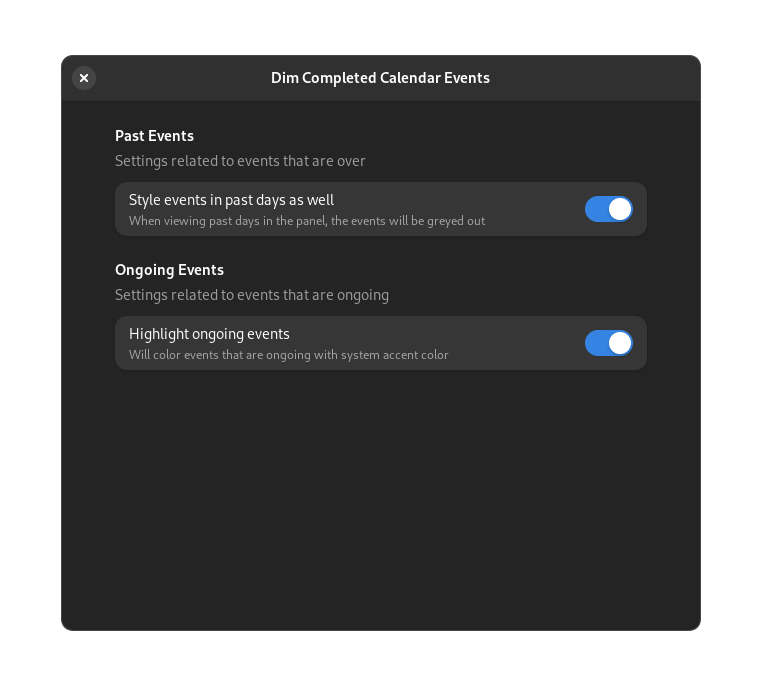
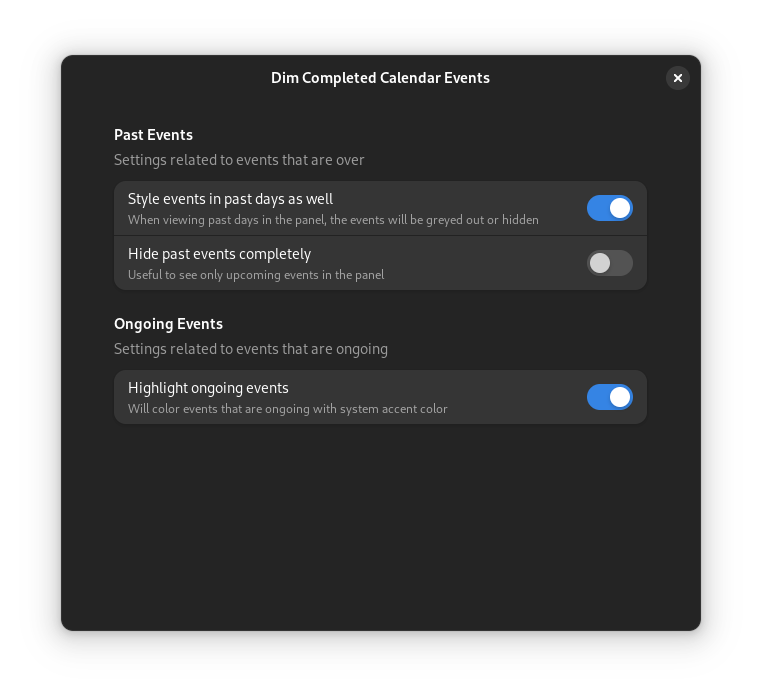
Add option to hide past events. (#3)
* Add option to hide past events.

Fixes #1

* Update src/patch/new-reload-events.ts

---------

diff --git a/src/patch/new-reload-events.ts b/src/patch/new-reload-events.ts
@@ -25,14 +25,29 @@ export function buildPatchedReloadEventsFunction(
       });
 
       // MODIFICATIONS
+      const styleAsCompleted = shouldBeStyledAsCompletedEvent(
+        event,
+        patchConfiguration.shouldStylePastDayEvents
+      );
+      const styleAsOngoing = shouldBeStyledAsOngoingEvent(
+        event,
+        patchConfiguration.shouldStyleOngoingEvents
+      );
+
+      if (styleAsCompleted && patchConfiguration.shouldHidePastEvents) {
+        continue;
+      }
+
+      const style = styleAsCompleted 
+        ? getCompletedEventStyle() 
+        : styleAsOngoing 
+          ? getOngoingEventStyle() 
+          : null;
+
       const summaryLabel = new St.Label({
         text: event.summary,
         style_class: "event-summary",
-        style: isCompletedEvent(event, patchConfiguration.shouldStylePastEvents)
-          ? getCompletedEventStyle()
-          : isOngoingEvent(event, patchConfiguration.shouldStyleOngoingEvents)
-          ? getOngoingEventStyle()
-          : null,
+        style: style,
       });
 
       box.add_child(summaryLabel);
@@ -60,7 +75,10 @@ export function buildPatchedReloadEventsFunction(
   };
 }
 
-function isCompletedEvent(event: Event, shouldStylePastDays: boolean) {
+function shouldBeStyledAsCompletedEvent(
+  event: Event,
+  shouldStylePastDays: boolean
+) {
   const isFinished = event.end < new Date();
 
   if (shouldStylePastDays) {
@@ -74,7 +92,10 @@ function isCompletedEvent(event: Event, shouldStylePastDays: boolean) {
   return isFinished && !startedInSomePastDay;
 }
 
-function isOngoingEvent(event: Event, shouldStyleOngoingEvents: boolean) {
+function shouldBeStyledAsOngoingEvent(
+  event: Event,
+  shouldStyleOngoingEvents: boolean
+) {
   const now = new Date();
 
   return shouldStyleOngoingEvents && event.date <= now && now <= event.end;

diff --git a/src/prefs.ts b/src/prefs.ts
@@ -25,27 +25,41 @@ export default class Preferences extends ExtensionPreferences {
       description: "Settings related to events that are over",
     });
 
-    const row = new Adw.ActionRow({
+    const rowPastDaySetting = new Adw.ActionRow({
       title: "Style events in past days as well",
       subtitle:
-        "When viewing past days in the panel, the events will be greyed out",
+        "When viewing past days in the panel, the events will be greyed out or hidden",
     });
 
-    const toggle = new Gtk.Switch({
+    const toggleStylePastDays = new Gtk.Switch({
       active: settings.getShouldStylePastDays(),
       valign: Gtk.Align.CENTER,
     });
 
-    toggle.connect("state-set", (_, state) => {
+    toggleStylePastDays.connect("state-set", (_, state) => {
       settings.setShouldStylePastDays(state);
 
       return false;
     });
+    rowPastDaySetting.add_suffix(toggleStylePastDays);
+    rowPastDaySetting.activatable_widget = toggleStylePastDays;
 
-    row.add_suffix(toggle);
-    row.activatable_widget = toggle;
+    const rowHidePastEventsSetting = new Adw.ActionRow({
+      title: "Hide past events completely",
+      subtitle: "Useful to see only upcoming events in the panel",
+    });
+    const toggleHidePastEvents = new Gtk.Switch({
+      active: settings.getShouldHidePastEvents(),
+      valign: Gtk.Align.CENTER,
+    });
+    toggleHidePastEvents.connect("state-set", (_, state) => {
+      settings.setShouldHidePastEvents(state);
+    });
+    rowHidePastEventsSetting.add_suffix(toggleHidePastEvents);
+    rowHidePastEventsSetting.activatable_widget = toggleHidePastEvents;
 
-    group.add(row);
+    group.add(rowPastDaySetting);
+    group.add(rowHidePastEventsSetting);
     page.add(group);
   }
 

diff --git a/src/settings-manager.ts b/src/settings-manager.ts
@@ -5,6 +5,7 @@ export const SettingsPath =
 
 const StylePastDaysSetting = "style-past-days";
 const StyleOngoingEventsSetting = "style-ongoing-events";
+const HidePastEventsSetting = "hide-past-events";
 
 export class SettingsManager {
   private settings: Gio.Settings;
@@ -21,12 +22,20 @@ export class SettingsManager {
     return this.settings.get_boolean(StyleOngoingEventsSetting);
   }
 
+  getShouldHidePastEvents(): boolean {
+    return this.settings.get_boolean(HidePastEventsSetting);
+  }
+
   setShouldStylePastDays(value: boolean) {
     this.settings.set_boolean(StylePastDaysSetting, value);
   }
 
   setShouldStyleOngoingEvents(value: boolean) {
     this.settings.set_boolean(StyleOngoingEventsSetting, value);
+  }
+
+  setShouldHidePastEvents(value: boolean) {
+    this.settings.set_boolean(HidePastEventsSetting, value);
   }
 
   connectToChanges(func: () => void): number {

diff --git a/src/patch/patch-configuration.ts b/src/patch/patch-configuration.ts
@@ -1,13 +1,15 @@
 import { SettingsManager } from "settings-manager";
 
 export interface PatchConfiguration {
-  shouldStylePastEvents: boolean;
+  shouldStylePastDayEvents: boolean;
   shouldStyleOngoingEvents: boolean;
+  shouldHidePastEvents: boolean;
 }
 
 export function getPatchConfiguration(settings: SettingsManager) {
   return {
-    shouldStylePastEvents: settings.getShouldStylePastDays(),
+    shouldStylePastDayEvents: settings.getShouldStylePastDays(),
     shouldStyleOngoingEvents: settings.getShouldStyleOngoingEvents(),
+    shouldHidePastEvents: settings.getShouldHidePastEvents(),
   };
 }
